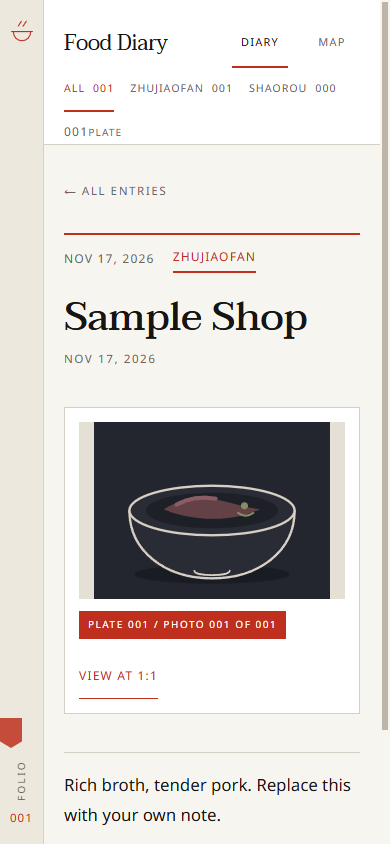
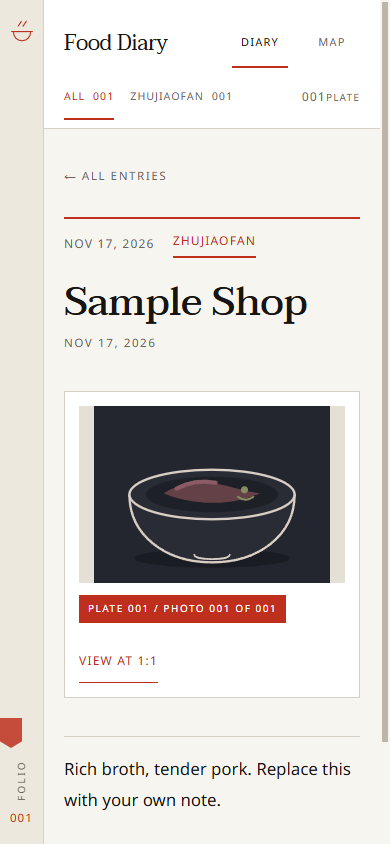
Hide empty filters and add ledger jump controls

diff --git a/app.js b/app.js
@@ -11,6 +11,7 @@ let sheetIndex = -1;
 let sheetTrigger = null;
 let popupTrigger = null;
 let zoomTrigger = null;
+let stripUpdater = null;
 
 const $ = (id) => document.getElementById(id);
 const tabsBox = $("tabs");
@@ -290,17 +291,60 @@ function renderDiary() {
   }
   featuredBox.appendChild(makeFeatured(list[0]));
 
+  document.body.classList.toggle("diary-few", list.length > 0 && list.length <= 3);
+
   const head = document.createElement("div");
   head.className = "strip-head";
   const left = document.createElement("span");
   left.textContent = "THE LEDGER";
   const right = document.createElement("span");
   right.textContent = pad(list.length) + (list.length === 1 ? " PLATE" : " PLATES");
-  head.append(left, right);
+  head.append(left);
+
   const inner = document.createElement("div");
   inner.className = "strip-inner";
   const currentId = entryId(list[0].entry, list[0].index);
   inner.append(...list.map((item) => makeThumb(item, entryId(item.entry, item.index) === currentId)));
+
+  if (list.length > 4) {
+    const nav = document.createElement("div");
+    nav.className = "strip-nav";
+    const prev = document.createElement("button");
+    prev.type = "button";
+    prev.className = "strip-nav-btn";
+    prev.setAttribute("aria-label", "Earlier plates");
+    prev.innerHTML = '<svg viewBox="0 0 24 24" width="16" height="16" fill="none" aria-hidden="true"><path d="M14 6l-6 6 6 6" stroke="currentColor" stroke-width="2" stroke-linecap="round" stroke-linejoin="round"/></svg>';
+    const next = document.createElement("button");
+    next.type = "button";
+    next.className = "strip-nav-btn";
+    next.setAttribute("aria-label", "Later plates");
+    next.innerHTML = '<svg viewBox="0 0 24 24" width="16" height="16" fill="none" aria-hidden="true"><path d="M10 6l6 6-6 6" stroke="currentColor" stroke-width="2" stroke-linecap="round" stroke-linejoin="round"/></svg>';
+    const range = document.createElement("span");
+    range.className = "strip-range";
+    const updateRange = () => {
+      const first = inner.firstElementChild;
+      const step = first ? first.getBoundingClientRect().width + 12 : 1;
+      const start = Math.min(list.length, Math.floor(inner.scrollLeft / step) + 1);
+      const visible = Math.max(1, Math.ceil(inner.clientWidth / step));
+      const end = Math.min(list.length, start + visible - 1);
+      range.textContent = pad(start) + "–" + pad(end) + " / " + pad(list.length);
+      prev.disabled = inner.scrollLeft <= 2;
+      next.disabled = inner.scrollLeft + inner.clientWidth >= inner.scrollWidth - 2;
+    };
+    const jump = (dir) => {
+      inner.scrollBy({ left: dir * inner.clientWidth * 0.9, behavior: prefersReducedMotion() ? "auto" : "smooth" });
+    };
+    prev.addEventListener("click", () => jump(-1));
+    next.addEventListener("click", () => jump(1));
+    inner.addEventListener("scroll", updateRange, { passive: true });
+    stripUpdater = updateRange;
+    nav.append(prev, range, next);
+    head.append(nav);
+    requestAnimationFrame(updateRange);
+  } else {
+    stripUpdater = null;
+  }
+  head.append(right);
   stripBox.append(head, inner);
 
   const tape = $("binding-tape");
@@ -784,6 +828,7 @@ function updateFilters() {
     Zhujiaofan: entries.filter((e) => e.type === "Zhujiaofan").length,
     Shaorou: entries.filter((e) => e.type === "Shaorou").length
   };
+  if (counts[activeFilter] === 0 && activeFilter !== filters[0]) activeFilter = filters[0];
   filterButtons.forEach((b) => {
     const label = filters.find((f) => f === b.dataset.filter);
     b.innerHTML = "";
@@ -791,6 +836,7 @@ function updateFilters() {
     const n = document.createElement("b");
     n.textContent = pad(counts[label]);
     b.appendChild(n);
+    b.hidden = counts[label] === 0 && label !== filters[0];
     b.setAttribute("aria-pressed", String(b.dataset.filter === activeFilter));
     b.setAttribute("aria-label", label + ", " + counts[label] + (counts[label] === 1 ? " entry" : " entries"));
   });
@@ -855,6 +901,7 @@ function renderRoute() {
   diaryPanel.hidden = route.view !== "diary";
   mapPanel.hidden = route.view !== "map";
   entryPanel.hidden = route.view !== "entry";
+  if (route.view !== "diary") document.body.classList.remove("diary-few");
 
   if (route.view === "map") {
     renderShopList();
@@ -894,6 +941,7 @@ listToggle.addEventListener("click", () => {
 window.addEventListener("hashchange", renderRoute);
 window.addEventListener("resize", () => {
   syncLayout();
+  if (stripUpdater) stripUpdater();
   if (map) requestAnimationFrame(() => map.invalidateSize());
 });
 

diff --git a/styles.css b/styles.css
@@ -112,7 +112,14 @@ input{caret-color:var(--accent)}
 
 /* print strip */
 .print-strip{margin-top:32px;border-top:1px solid var(--rule);padding-top:18px}
-.strip-head{display:flex;justify-content:space-between;gap:16px;font-family:var(--label);font-size:.66rem;letter-spacing:.22em;text-transform:uppercase;color:var(--secondary);margin-bottom:16px}
+.strip-head{display:flex;justify-content:space-between;align-items:center;gap:16px;font-family:var(--label);font-size:.66rem;letter-spacing:.22em;text-transform:uppercase;color:var(--secondary);margin-bottom:16px}
+.strip-nav{display:flex;align-items:center;gap:8px;margin-left:auto}
+.strip-nav-btn{display:grid;place-items:center;width:44px;height:44px;appearance:none;background:none;border:1px solid var(--rule);color:var(--secondary);cursor:pointer}
+.strip-nav-btn:hover:not(:disabled){border-color:var(--accent);color:var(--accent)}
+.strip-nav-btn:disabled{opacity:.4;cursor:default}
+.strip-range{font-family:var(--label);font-size:.66rem;letter-spacing:.1em;color:var(--secondary);font-variant-numeric:tabular-nums;white-space:nowrap}
+.diary-few .content{padding-bottom:56px}
+.diary-few .print-thumb{flex-basis:220px}
 .strip-inner{display:flex;gap:12px;overflow-x:auto;padding:4px 2px 12px;scroll-snap-type:x proximity}
 .print-thumb{position:relative;flex:0 0 168px;appearance:none;background:none;border:0;padding:0;text-align:left;cursor:pointer;scroll-snap-align:start}
 .thumb-mat{display:block;background:var(--paper);padding:6px;border:1px solid var(--rule)}
@@ -238,7 +245,11 @@ input{caret-color:var(--accent)}
   .shop-name{font-size:2.5rem;margin-top:18px}
   .feature-body .inscription{margin-top:20px}
   .print-strip{margin-top:40px}
+  .strip-head{flex-wrap:wrap;gap:8px}
+  .strip-nav{order:3;width:100%;margin-left:0;justify-content:flex-start}
+  .strip-head > span:last-child{order:2;margin-left:auto}
   .print-thumb{flex-basis:140px}
+  .diary-few .print-thumb{flex-basis:200px}
   .map-ledger{grid-template-columns:1fr;grid-template-rows:auto minmax(0,1fr);height:calc(100svh - var(--map-offset,190px));min-height:440px}
   .ledger-list{border-right:0;border-bottom:1px solid var(--rule)}
   .list-toggle{min-height:48px;padding:12px 14px;cursor:pointer}

diff --git a/index.html b/index.html
@@ -6,7 +6,7 @@
   <title>Food Diary</title>
   <link rel="icon" href="data:,">
   <link rel="stylesheet" href="https://unpkg.com/leaflet@1.9.4/dist/leaflet.css">
-  <link rel="stylesheet" href="styles.css?v=27">
+  <link rel="stylesheet" href="styles.css?v=28">
 </head>
 <body>
   <a class="skip-link" href="#main">Skip to content</a>
@@ -109,7 +109,7 @@
   </div>
 
   <script src="https://unpkg.com/leaflet@1.9.4/dist/leaflet.js"></script>
-  <script src="data/entries.js?v=27"></script>
-  <script src="app.js?v=27"></script>
+  <script src="data/entries.js?v=28"></script>
+  <script src="app.js?v=28"></script>
 </body>
 </html>

diff --git a/README.md b/README.md
@@ -33,7 +33,7 @@ GitHub Pages updates in about a minute.
 
 ## Look and behaviour
 
-Paper Editorial: a newsprint ground, white photo mounts, black ink and one vermilion rule. Diary is the front door, with its own search field for large archives; Map has a searchable list on desktop and a collapsible sheet on phones; an entry opens one large plate with its note. The last entry you opened gets a red tape flag.
+Paper Editorial: a newsprint ground, white photo mounts, black ink and one vermilion rule. Diary is the front door, with its own search field and a ledger strip that gains jump controls as the archive grows. Dish filters with zero entries hide themselves. Map has a searchable list on desktop and a collapsible sheet on phones; an entry opens one large plate with its note. The last entry you opened gets a red tape flag.
 
 Keyboard works throughout: pins respond to Enter and Space, the sheet closes with Escape and returns focus, and all controls show a red focus ring. Reduced-motion is respected.
 
